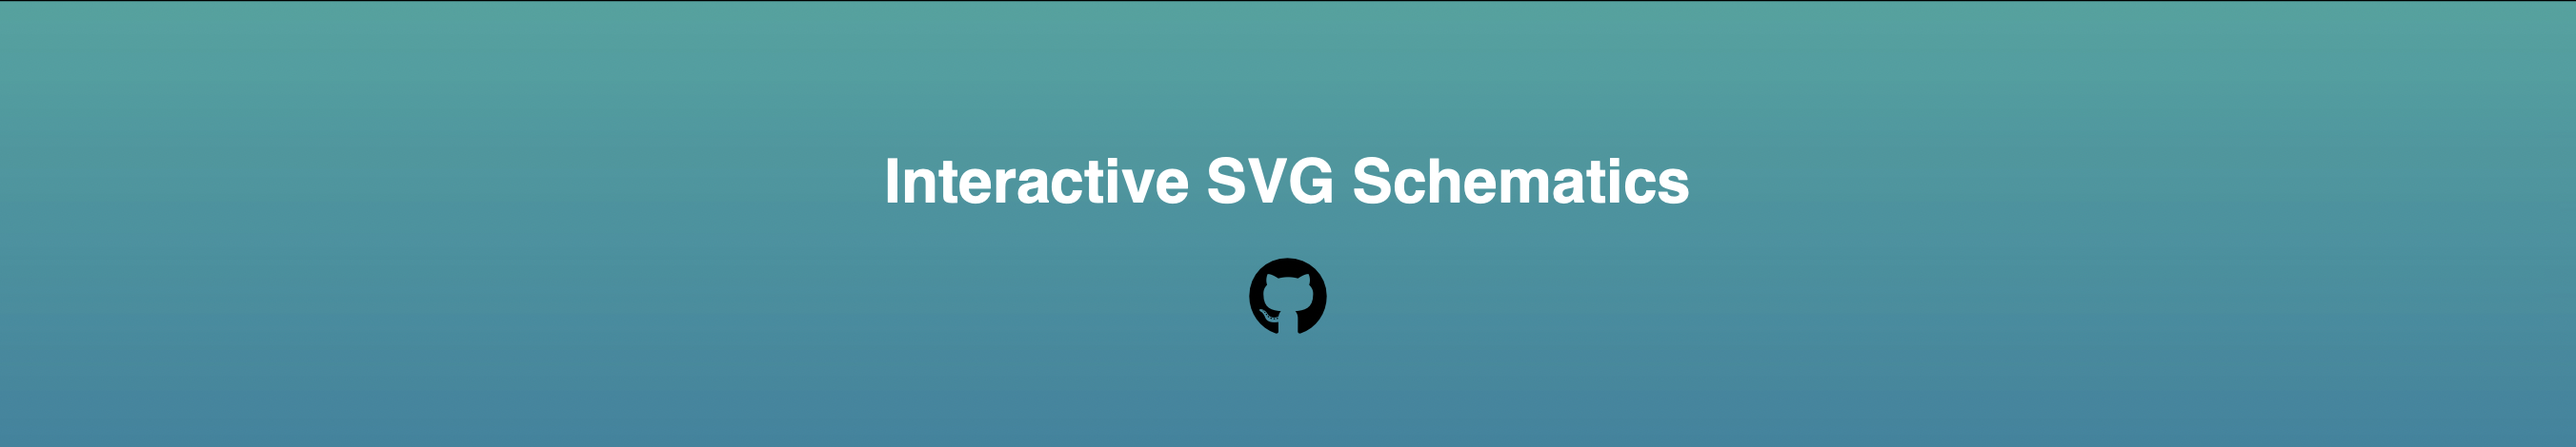
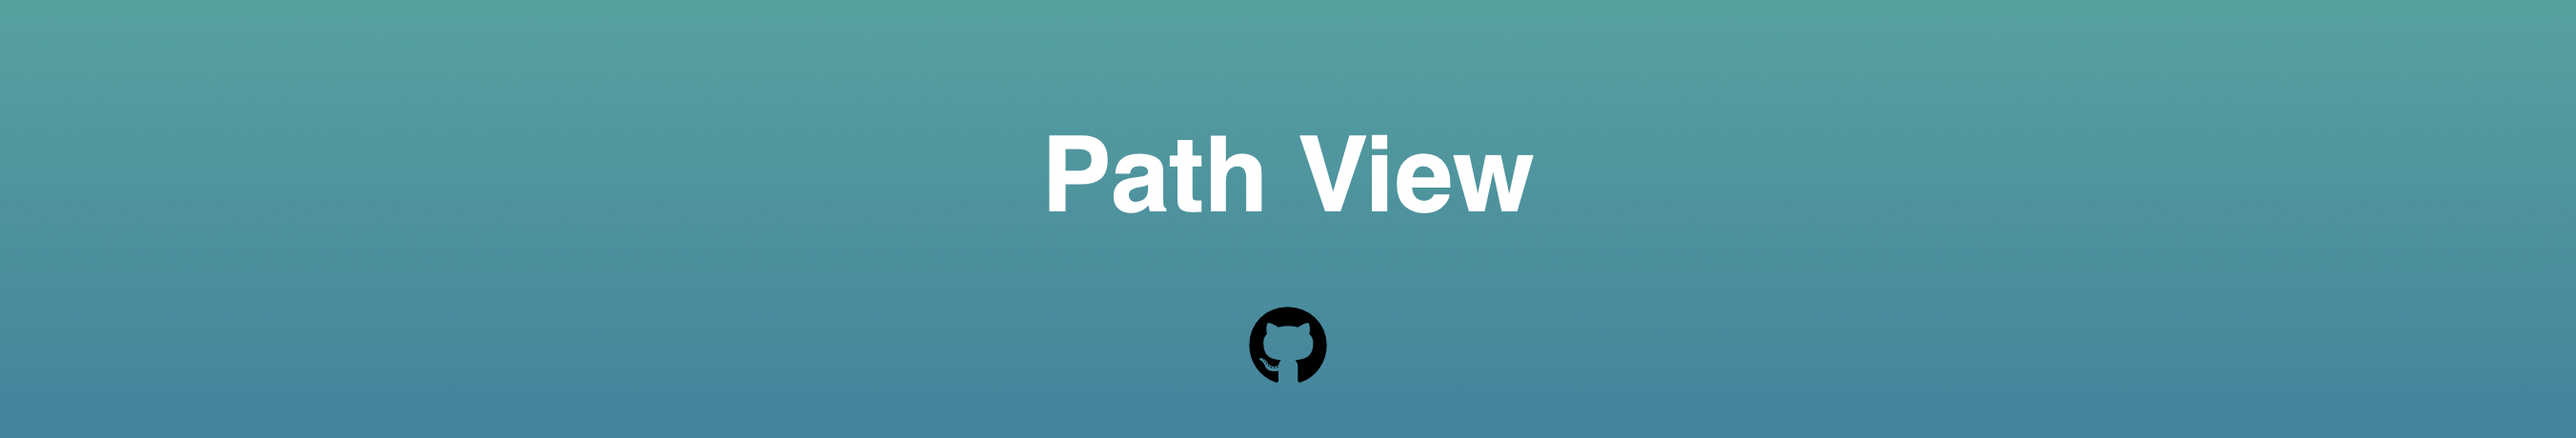
updating readme

Changed region(s): [[0.3417, 0.3043, 0.6524, 0.487], [0.0, 0.0, 1.0, 0.0304], [0.466, 0.5783, 0.5281, 0.8826]]

diff --git a/demo_html/path0.html b/demo_html/path0.html
@@ -16,7 +16,7 @@ header {
     background-size: cover;
     background-position: center;
     color: #fff;
-    padding: 55px;
+    padding: 25px;
     text-align: center;
     overflow-x: auto;
 }
@@ -62,7 +62,7 @@ main {
 </head>
 <body>
 <header>
-  <h1>Interactive SVG Schematics</h1>
+  <h1 style="font-size: 55px;">Path View</h1>
   <a href="https://github.com/kanndil/PathView"><img src = "../images/github.svg" alt="github"style="width:42px;height:42px;"/></a>
 
 </header>

diff --git a/demo_html/path1.html b/demo_html/path1.html
@@ -16,7 +16,7 @@ header {
     background-size: cover;
     background-position: center;
     color: #fff;
-    padding: 55px;
+    padding: 25px;
     text-align: center;
     overflow-x: auto;
 }
@@ -62,7 +62,7 @@ main {
 </head>
 <body>
 <header>
-  <h1>Interactive SVG Schematics</h1>
+  <h1 style="font-size: 55px;">Path View</h1>
   <a href="https://github.com/kanndil/PathView"><img src = "../images/github.svg" alt="github"style="width:42px;height:42px;"/></a>
 
 </header>

diff --git a/demo_html/path2.html b/demo_html/path2.html
@@ -16,7 +16,7 @@ header {
     background-size: cover;
     background-position: center;
     color: #fff;
-    padding: 55px;
+    padding: 25px;
     text-align: center;
     overflow-x: auto;
 }
@@ -62,7 +62,7 @@ main {
 </head>
 <body>
 <header>
-  <h1>Interactive SVG Schematics</h1>
+  <h1 style="font-size: 55px;">Path View</h1>
   <a href="https://github.com/kanndil/PathView"><img src = "../images/github.svg" alt="github"style="width:42px;height:42px;"/></a>
 
 </header>

diff --git a/index.html b/index.html
@@ -16,7 +16,7 @@ header {
   background-size: cover;
   background-position: center;
   color: #fff;
-  padding: 55px;
+  padding: 25px;
   text-align: center;
   overflow-x: auto;
 }
@@ -61,7 +61,7 @@ main {
 </head>
 <body>
 <header>
-  <h1>Interactive SVG Schematics</h1>
+    <h1 style="font-size: 55px;">Path View</h1>
   <a href="https://github.com/kanndil/PathView"><img src = "images/github.svg" alt="github"style="width:42px;height:42px;"/></a>
 </header>
 

diff --git a/src/interactiveReport.py b/src/interactiveReport.py
@@ -684,7 +684,7 @@ main {
 </head>
 <body>
 <header>
-  <h1>Interactive SVG Schematics</h1>
+  <h1 style="font-size: 55px;">Path View</h1>
   <a href="https://github.com/kanndil/PathView"><img src = "../../../images/github.svg" alt="github"style="width:42px;height:42px;"/></a>
 
 </header>

diff --git a/README.md b/README.md
@@ -27,7 +27,7 @@
 Welcome to the open-source project PathView! PathView is a powerful tool that supports multiple Static Timing Analysis (STA) tools, including [OpenSTA](https://github.com/The-OpenROAD-Project/OpenSTA) and [PrimeTime](https://www.synopsys.com/implementation-and-signoff/signoff/primetime.html). It aims to facilitate the visualization and analysis of timing paths extracted from STA reports.
 </p>
 <p align="justify">
-With PathView, you can extract paths generated by OpenSTA reports and transform them into interactive SVG schematics using the [netlistsvg](https://github.com/nturley/netlistsvg) tool. These interactive schematics provide an intuitive and visually appealing representation of the timing details of each cell in a timing path, utilizing any standard cell library.
+With PathView, you can extract paths generated by OpenSTA reports and transform them into Path View using the [netlistsvg](https://github.com/nturley/netlistsvg) tool. These interactive schematics provide an intuitive and visually appealing representation of the timing details of each cell in a timing path, utilizing any standard cell library.
 </p>
 <p align="justify">
 By default, PathView supports both of the [Sky130_fd_sc_hd](https://github.com/google/skywater-pdk-libs-sky130_fd_sc_hd) and [gf180mcu_fd_sc_mcu7t5v0__tt_025C_5v00_](https://github.com/google/globalfoundries-pdk-libs-gf180mcu_fd_sc_mcu7t5v0) standard cell libraries. However, we understand that different projects may employ various standard cell libraries. Therefore, PathView also allows you to easily add support for the standard cell library you are using. Detailed instructions can be found in the "Support the standard cell library you are using" section of our project documentation, available [here](https://github.com/kanndil/PathView#second-support-the-standard-cell-library-you-are-using).
